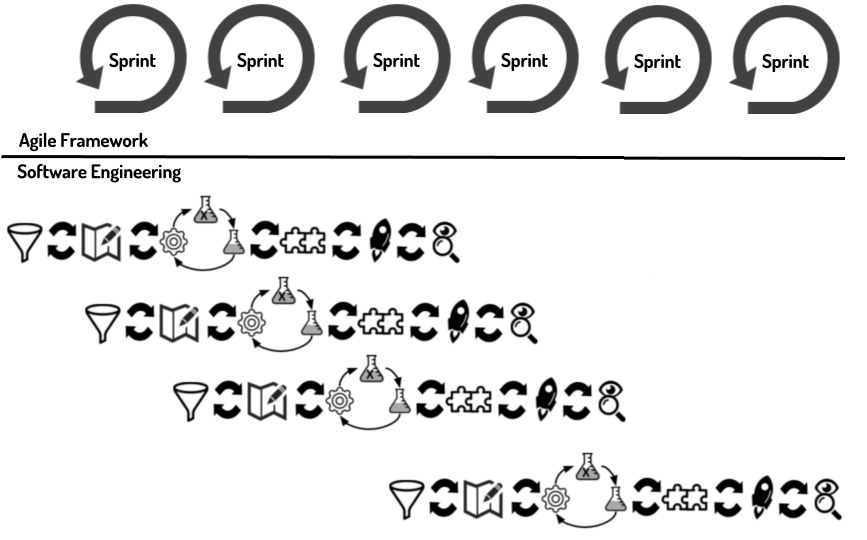
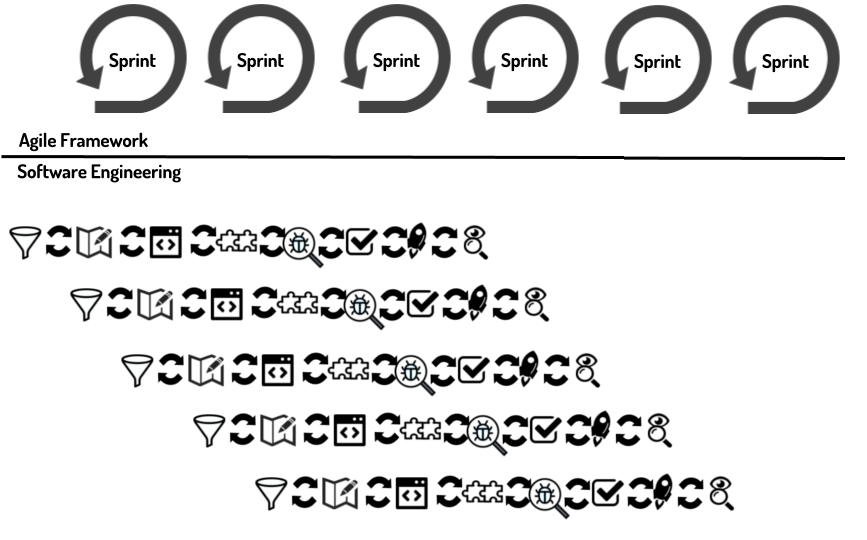
Fix 12 de dic. 2019

Changed region(s): [[0.0623, 0.5037, 0.9654, 0.9778], [0.0, 0.3556, 0.5606, 0.5037]]

diff --git a/content/complementary.tex b/content/complementary.tex
@@ -599,10 +599,10 @@ Si tenemos que asignar un lema a este enfoque es "la prueba en primer lugar" y s
 
 \begin{figure}[h]
   \centering
-  \includegraphics[width=0.75\textwidth]{Continuous_delivery_flow}
-  \caption{Flujo de delivery}
+  \includegraphics[width=0.75\textwidth]{TDD_process}
+  \caption{Procesos de Test Driven Development}
   \centering
-  \label{fig:Continuous_delivery_flow} %\ref{fig:Continuous_delivery_flow}
+  \label{fig:TDD_process} %\ref{fig:TDD_process}
 \end{figure}
 \FloatBarrier % Command to control the position of floating images. With its, I can get the figures not to be pushed to the end of the document.
 % El comando FloatBarrier es usado aqui para que la imagen se clave en este lugar y que no sea acarreada al final del documento.
